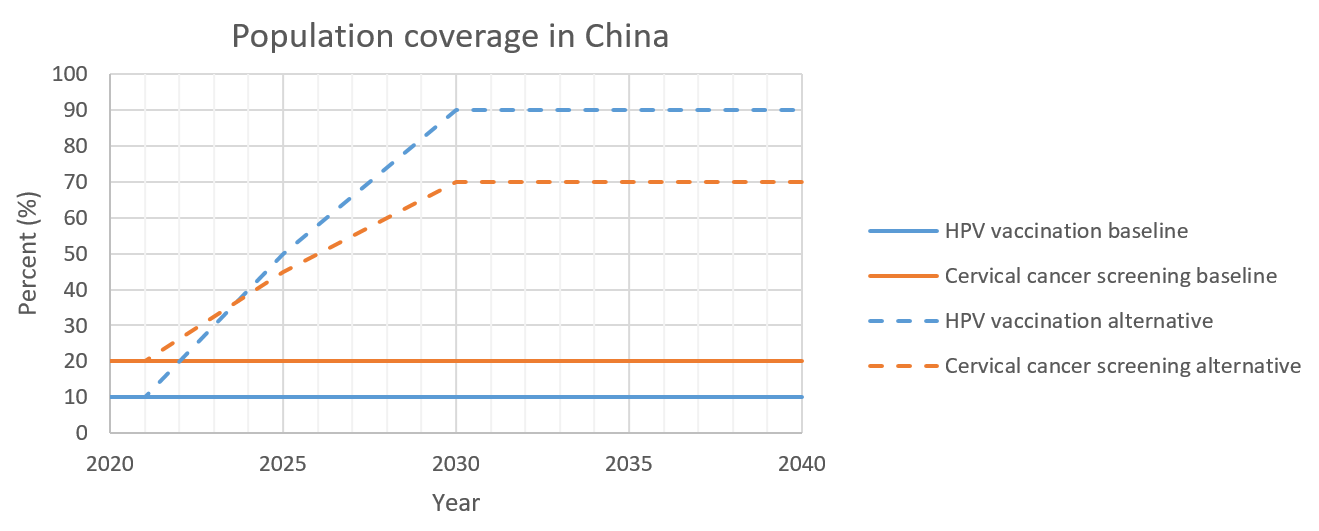
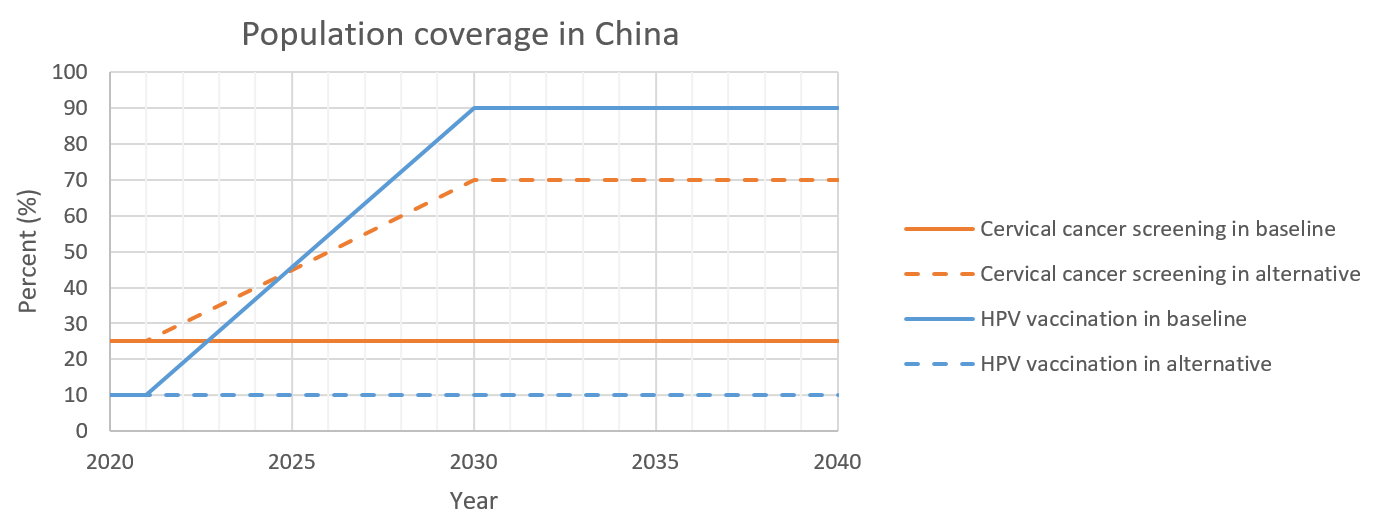
update the screening scenario and screening algorithm

diff --git a/docs/source/concept_models/vivarium_swissre_cervicalcancer/cervical_cancer_concept_model.rst b/docs/source/concept_models/vivarium_swissre_cervicalcancer/cervical_cancer_concept_model.rst
@@ -115,7 +115,8 @@ Outcome
 Most proximal determinant/exposure
  - Cervical cancer status
  - Cervical cancer screening
- - HPV infection  
+ - HPV infection
+ - HPV vaccination status
 Confounders
  - age
  - sex
@@ -136,14 +137,15 @@ among insured population
 
 4.1 Simulation scenarios
 ------------------------
-**Baseline:** project existing level of HPV vaccination for women aged 15 to 44 
-and cervical cancer screening for women aged 25 to 64, where:
+**Baseline:** by 2040, project existing level of cervical cancer screening for 
+women aged 21 to 65; linear ramp up HPV vaccination to cover 90% of the women 
+aged 15 to 45 in 2030, then stay 90% in 2031-2040. Where:
  - Women without HPV infection are provided with cytology every three years
  - Women with HPV infection are provided cytology every year
 
-**Alternative scenario:** by 2040, linear ramp up both HPV vaccination to cover 
-90% of the women aged 15 to 44 in 2021-2025 and cervical cancer screening to cover 
-70% of women aged 25 to 64 in 2021-2030, where:
+**Alternative scenario:** by 2040, project existing level of HPV vaccination for 
+women aged 15 to 45; linear ramp up cervical cancer screening to cover 70% of the 
+women aged 21 to 65 in 2030, then stay 70% in 2031-2040. Where:
  - Women without HPV infection are provided with cytology every three years
  - Women with HPV infection are provided cytology every year
 
@@ -159,34 +161,36 @@ and cervical cancer screening for women aged 25 to 64, where:
    * - Baseline
      - Cervical cancer screening
      - 2020-2040
-     - 20%
+     - 25%
+   * - Baseline
+     - HPV vaccination
+     - 2020-2030
+     - Stay 10% in 2020-2021, then linearly ramp up from 10% to 90% in 2021-2030.
+   * - Baseline
+     - HPV vaccination
+     - 2031-2040
+     - 90%
+   * - Alternative
+     - HPV vaccination
+     - 2020-2040
+     - 10%
    * - Alternative
      - Cervical cancer screening
      - 2020-2030
-     - Stay 20% in 2020-2021 then linearly ramp up from 20% to 70% in 2021-2030
+     - Stay 25% in 2020-2021, then linearly ramp up from 25% to 70% in 2021-2030.
    * - Alternative
      - Cervical cancer screening
      - 2031-2040
      - 70%
-   * - Baseline
-     - HPV vaccination
-     - 2020-2040
-     - 10% (stand-in value)
-   * - Alternative
-     - HPV vaccination
-     - 2020-2030
-     - Stay 10% in 2020-2021 then linearly ramp up from 10% to 90% in 2021-2030
-   * - Alternative
-     - HPV vaccination
-     - 2031-2040
-     - 90%
 
 .. note::
 
- - Initial screening coverage = 20.7% with 95%CI 18.6-22.8 (Wang et al. 2015). 
- - No data identified for current HPV vaccination rates in China.
- - The target screening and HPV vaccination coverage are guided by WHO cervical 
-   cancer elimination strategy.
+ - Wang et al. reported a current cervical cancer screening coverage of 20.7% 
+   with 95%CI 18.6-22.8 in China. We set it as 25% as we believe insured population has higher screening coverage than general population. 
+ - No data has identified for current HPV vaccination rates in China. Temporarily 
+   we will use 10%.
+ - The target screening and HPV vaccination coverage in 2030 are guided by WHO 
+   cervical cancer elimination strategy.
 
 
 .. _5.0:
@@ -210,8 +214,7 @@ and cervical cancer screening for women aged 25 to 64, where:
 
 5.2.1 Population description
 ~~~~~~~~~~~~~~~~~~~~~~~~~~~~
- - Cohort type: Closed cohort of 200,000 insured male (50%) and female (50%) 
-   simulants.
+ - Cohort type: Closed cohort of 200,000 insured female (100%) simulants.
  - Age and sex: Age 15 to 95+, 5 year-age bands, uniformly distributed age and 
    sex structure.
  - Time span: Jan 1, 2020 to Dec 31, 2040 with 36.5-day time-steps.
@@ -306,8 +309,6 @@ Cervical cancer screening algorithm was determined by three variables
  1) Sex
  2) Age 
  3) Diagnosis of HPV infection
-We will assign every simulant a cytology plus HPV co-test at the beginning of 
-the simulation.
 
 .. image:: cervical_screening_branches.svg 
 
@@ -318,51 +319,57 @@ the simulation.
      - Sex
      - Age
      - Screening technology
-     - Screening result
-     - proportion
-     - follow-up test
-     - Sensitivity
-     - Specificity
+     - Co-test result
+     - Co-test sensitivity
+     - Co-test specificity
+     - Follow-up test
+     - Follow-up test sensitivity
+     - Follow-up test specificity
    * - A
      - Female
-     - 25-65
-     - Cytology plus HPV test
+     - 21-65
+     - Cytology plus HPV test, every 3 years
      - HPV negative, Cytology negative
      - 17.4%
+     - 100%
      - Cytology, every 3 years
-     - 65.9% with 95%CI 54.9 to 75.3
+     - 65.9% (95%CI 54.9 to 75.3)
      - 100%
    * - B
      - Female
-     - 25-65
-     - Cytology plus HPV test
+     - 21-65
+     - Cytology plus HPV test, every 3 years
      - HPV positive, Cytology negative
      - 23.5%
+     - 100%
      - Cytology, every year
-     - 65.9% with 95%CI 54.9 to 75.3
+     - 65.9% (95%CI 54.9 to 75.3)
      - 100%
    * - C
      - Female
-     - 25-65
-     - Cytology plus HPV test
+     - 21-65
+     - Cytology plus HPV test, every 3 years
      - HPV negative, Cytology positive
      - 5.9%
-     - Colposcopy
+     - 100%
+     - 
      - 
      - 
    * - D
      - Female
-     - 25-65
-     - Cytology plus HPV test
+     - 21-65
+     - Cytology plus HPV test, every 3 years
      - HPV positive, Cytology positive
      - 53.2%
-     - Colposcopy
+     - 100%
+     - 
      - 
      - 
    * - E
      - Female
-     - <25 or 65+
+     - <21 or 65+
      - No screening
+     - 
      - 
      - 
      - 
@@ -377,6 +384,18 @@ the simulation.
      - 
      - 
      - 
+     - 
+
+.. note::
+ 
+ - Co-test (cytology plus HPV test) is not highly recommended for women under 
+   30 according to guidelines from American Cancer Society and U.S. Preventive Services Task Force. To simply our screening algorithm, we decided to set initial age of the co-test to be the same as initial age of cytology alone, 
+   namely 21 years old in our simulation.
+ - The stand-in value of co-test sensitivity was extracted from Schiffman et al. 
+   2018.
+ - For now, follow-up test is not applicable with positive Cytology results. 
+   Though colposcopy is recommended after diagnosis of benign/invasive cervical cancer, we could use colposcopy referral rate to determine treatment coverage for benign cervical cancer. 
+ - Specificity for both co-test and cytology alone are set to 100% in our model. 
 
 In initialization, We assume that
  - No one has prior knowledge of their disease status (and HPV status) on day one 
@@ -384,8 +403,6 @@ In initialization, We assume that
  - All simulants are buying insurance on day one of the simulation.
  - For simulants in cervical cancer (CC) state regardless of detection, they have 
    a transition rate of 0.1 (per person-year) of moving into a recovered (R) state; this results in an average duration in state CC of 10 years. People in state CC and R follow exactly the same screening algorithm, namely branch A, B, C, or D depending on their age, sex, and co-test result. Simulants do not ever make a second cervical cancer claim, therefore the negative screening results were expected for those in R state in order to avoid double counting the CI claim from detected cervical cancer.
- - The initial age of cervical cancer screening is set to 30 years old since HPV 
-   co-test (cytology plus HPV test) is not recommended for women under 30 according to guidelines from American Cancer Society and U.S. Preventive Services Task Force.
 
 :underline:`II. Screening schedule and attendance`
 
@@ -406,13 +423,13 @@ Time to next scheduled screening
 :underline:`III. Screening initialization`
 
 The date of the first screening appointment (T_appt) for females at age between 
-30 and 65 is determined as follows. We assume that each simulant had a previous 
+21 and 65 is determined as follows. We assume that each simulant had a previous 
 appointment scheduled at some point before the simulation begins. We calculate 
 the time between that past appointment and their next appointment (delta_T) using 
 the methodology outlined in Section 5.3.2.II (Time to next scheduled screening). 
 With a uniform distribution we randomly determine how far along that time interval 
 between appointments each individual is (X) at the beginning of the simulation (
-T_0). For females under 30 when the simulation begins the methodology is identical, 
+T_0). For females under 21 when the simulation begins the methodology is identical, 
 except T_0 is the simulant's 30th birthday rather than the beginning of the 
 simulation. No screening appointment will be initialized for males at any age, as 
 well as females above 65.
@@ -467,31 +484,36 @@ Treatment for benign cervical cancer
      - 14.5 years
      - Chen et al. 2011
      - Globally, the duration ranged from 5-15 years
-   * - % cervical cancer screening coverage at baseline
-     - 20.7% (95%CI 18.6-22.8) 
+   * - Initial cervical cancer screening coverage
+     - 25%
      - Wang et al. 2015
-     - 
-   * - % cervical cancer screening in alternative scenario
+     - It's an arbitrary number greater than 20.7%.
+   * - Target cervical cancer screening coverage in 2030
      - 70%
      - WHO cervical cancer elimination strategy
      - 
-   * - % HPV vaccination coverage at baseline
+   * - Initial HPV vaccination coverage
      - 10%
      - 
-     - the current HPV vaccination rates remain low in China, no data has
+     - The current HPV vaccination rates remain low in China, no data has
        identified.
-   * - % HPV vaccination coverage in alternative scenario
+   * - Target HPV vaccination coverage in 2030
      - 90%
      - WHO cervical cancer elimination strategy
      - 
-   * - Screening sensitivity
+   * - Screening sensitivity of co-test
+     - The detection rates of HPV-/Cytology-, HPV+/Cytology-, HPV-/Cytology+, 
+       HPV+/Cytology+ are 17.4%, 23.5%, 5.9%, 53.2%, respectively.
+     - Schiffman et al. 2018
+     - 
+   * - Screening sensitivity of cytology alone
      - 65.9% (95% CI 54.9 to 75.3)
      - Koliopoulos et al. 2017
      - 
-   * - Screening specificity
+   * - Screening specificity of both co-test and cytology alone
      - 100%
      - 
-     - by client’s assumption (no false positive results of screening)
+     - by client’s assumption
    * - Prevalence of HPV
      - 19.0% (95%CI 17.1-20.9)
      - Li et al. 2019
@@ -500,7 +522,7 @@ Treatment for benign cervical cancer
      - 
      - 
      - 
-   * - relative risk of HPV
+   * - Relative risk of HPV
      - 16.2 (95%CI 9.6 to 27.3)
      - Chen et al. 2011
      - 
